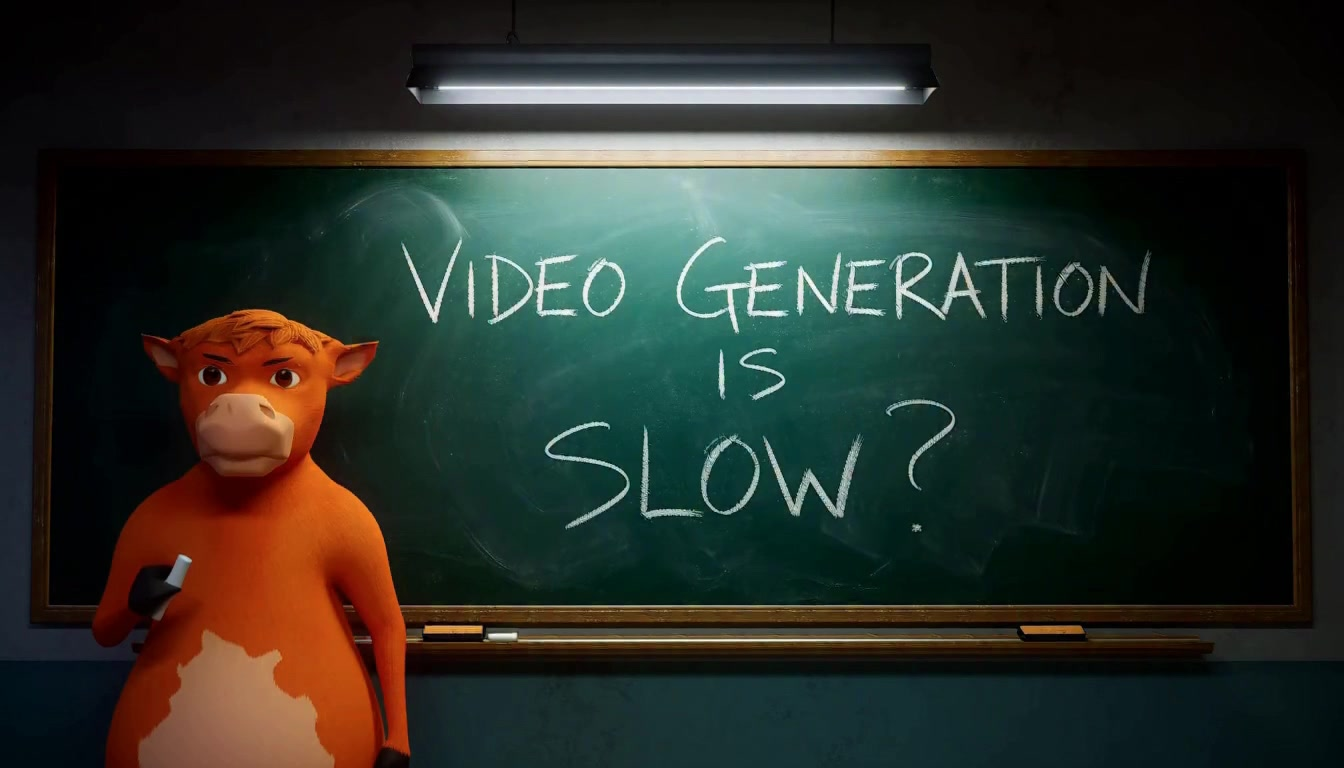
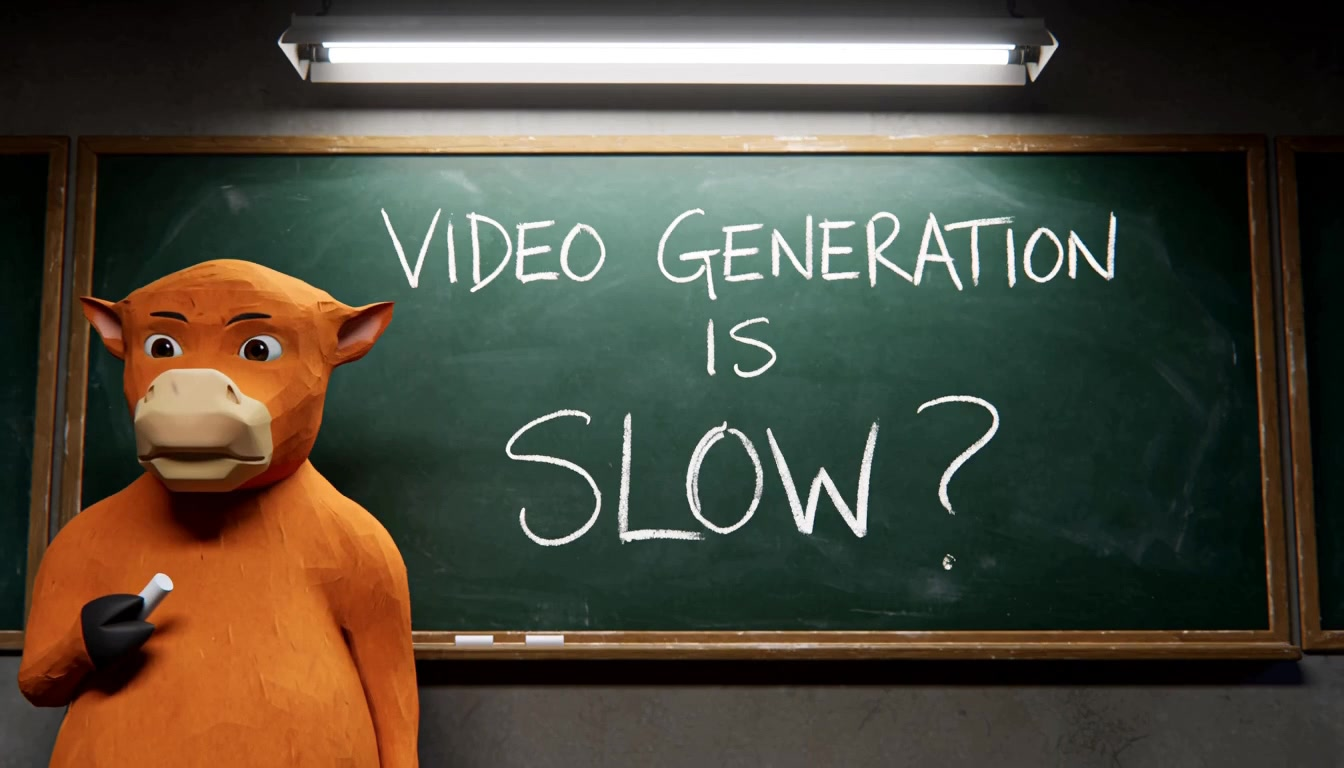
docs: refine Sol-H3 collaborators and showcase copy

diff --git a/Sol-Engine/Sol-H3/index.html b/Sol-Engine/Sol-H3/index.html
@@ -2892,7 +2892,7 @@
     .collaborator-heading strong { color: var(--fog); font-weight: 760; }
     .collaborator-logos {
       display: grid;
-      grid-template-columns: repeat(5, minmax(0, 1fr));
+      grid-template-columns: repeat(4, minmax(0, 1fr));
       gap: 8px;
       margin-top: 8px;
     }
@@ -2949,9 +2949,6 @@
       background: rgba(255, 255, 255, .05);
     }
     .partner-logo-box img { display: block; max-width: 100%; max-height: 100%; object-fit: contain; }
-    .partner-hao .partner-lockup { min-height: 41px; }
-    .partner-hao .partner-logo-box { width: 182px; height: 41px; border: 0; border-radius: 0; background: transparent; }
-    .partner-hao .partner-logo-box img { width: 100%; height: auto; }
     .partner-reactor .partner-logo-box { background: #e5ddba; }
     .partner-reactor .partner-logo-box img { width: 100%; height: 100%; }
     .partner-humanize .partner-logo-box img { width: 32px; height: 32px; }
@@ -4232,8 +4229,8 @@
 
           <div class="hero-visual" aria-label="Full-frame Sol-Engine generation preview">
           <div class="video-terminal">
-            <video id="hero-video" poster="sol-h3-poster.jpg" autoplay muted loop controls playsinline preload="metadata" crossorigin="anonymous" aria-label="Sol-Engine generated video preview with playback and seek controls">
-              <source src="https://huggingface.co/datasets/Efficient-Large-Model/Sana-assets/resolve/main/Sol-Engine/Sol-H3/blog-assets/hero/sol-h3-niu-lai-promo-b300-audited-ack-hq.mp4" type="video/mp4">
+            <video id="hero-video" poster="sol-h3-poster.jpg?v=v6" autoplay muted loop controls playsinline preload="metadata" crossorigin="anonymous" aria-label="Sol-Engine generated video preview with playback and seek controls">
+              <source src="https://huggingface.co/datasets/Efficient-Large-Model/Sana-assets/resolve/main/Sol-Engine/Sol-H3/blog-assets/hero/sol-h3-niu-lai-promo-official-ref2va50-b300-audited-ack-hq.mp4?v=v6" type="video/mp4">
               Your browser does not support this MP4 preview.
             </video>
             <div class="terminal-top">
@@ -4242,7 +4239,7 @@
             </div>
           </div>
           <div class="video-credit">
-            <span class="video-credit-copy">Featured sample · Sol-Engine uses <a href="https://github.com/ModelTC/LightX2V/blob/main/scripts/minimax_h3/run_minimax_h3_ref2av.sh" target="_blank" rel="noopener noreferrer">LightX2V Ref2AV</a>.</span>
+            <span class="video-credit-copy">Featured sample · Official MiniMax-H3 Ref2AV weights · 50 steps.</span>
           </div>
           </div>
         </div>
@@ -4262,10 +4259,6 @@
             </a>
           </div>
           <div class="collaborator-logos">
-            <a class="collaborator-logo partner-hao" href="https://haoailab.com/blogs/fasth3-preview/" target="_blank" rel="noopener noreferrer" aria-label="Hao AI Lab at UCSD — Default few-step model">
-              <span class="partner-lockup"><span class="partner-logo-box"><img src="assets/partner-hao-ai-lab.png" alt="Hao AI Lab @ UCSD"></span></span>
-              <span class="partner-role">Default few-step model</span>
-            </a>
             <a class="collaborator-logo partner-reactor" href="https://www.reactor.inc/" target="_blank" rel="noopener noreferrer" aria-label="Reactor — online demo coming soon">
               <span class="partner-lockup"><span class="partner-logo-box"><img src="assets/partner-reactor.png" alt=""></span><span class="partner-name">reactor</span></span>
               <span class="partner-role">Online demo · coming</span>
@@ -4289,7 +4282,7 @@
             <svg viewBox="0 0 24 24" fill="none" stroke="currentColor" stroke-width="1.8" aria-hidden="true"><path d="M7 17 17 7M8 7h9v9"/></svg>
           </a>
           <p class="collaboration-statement">
-            Built by <strong>NVIDIA Research’s Efficient AI Team and Singapore Lab</strong>, Sol-H3 defaults to <a href="https://haoailab.com/blogs/fasth3-preview/" target="_blank" rel="noopener noreferrer">Hao AI Lab’s four-step FastH3</a>. <a href="https://www.reactor.inc/" target="_blank" rel="noopener noreferrer">Reactor</a> is collaborating on the online demo. <a href="https://github.com/humanfia/humanize2" target="_blank" rel="noopener noreferrer">Humanize</a> and <a href="https://github.com/mit-han-lab/kernel-design-agents" target="_blank" rel="noopener noreferrer">KDA</a> helped tune GPU kernels on Sol-Engine. Compatible MiniMax-H3 few-step LoRAs—including <a href="https://huggingface.co/lightx2v/Minimax-h3-Turbo" target="_blank" rel="noopener noreferrer">LightX2V’s open 4-step and 8-step Turbo LoRAs</a>—plug into the same Sol-H3 engine.
+            Built by <strong>NVIDIA Research’s Efficient AI Team and Singapore Lab</strong>. <a href="https://www.reactor.inc/" target="_blank" rel="noopener noreferrer">Reactor</a> is collaborating on the online demo. <a href="https://github.com/humanfia/humanize2" target="_blank" rel="noopener noreferrer">Humanize</a> and <a href="https://github.com/mit-han-lab/kernel-design-agents" target="_blank" rel="noopener noreferrer">KDA</a> helped tune GPU kernels on Sol-Engine. Compatible MiniMax-H3 few-step LoRAs—including <a href="https://huggingface.co/lightx2v/Minimax-h3-Turbo" target="_blank" rel="noopener noreferrer">LightX2V’s open 4-step and 8-step Turbo LoRAs</a>—plug into the same Sol-H3 engine.
           </p>
         </aside>
       </div>
@@ -4469,7 +4462,7 @@
 
         <div class="method-note reveal">
           <strong>Showcase profile</strong>
-          <span>Each ten-second sample is generated by Sol-H3 at 1344×768 with native audio, using the four-step FastH3 Dense/Data-Free adapter. Showcase settings differ from the speed benchmark above.</span>
+          <span>Each ten-second sample is generated by Sol-H3 at 1344×768 with native audio, using the default four-step Dense/Data-Free adapter.</span>
         </div>
       </div>
     </section>
@@ -4654,11 +4647,11 @@
           </div>
           <ul class="acknowledgement-list">
             <li><a class="ack-entity" href="https://huggingface.co/MiniMaxAI/MiniMax-H3" target="_blank" rel="noopener noreferrer">MiniMax</a><span class="ack-role">MiniMax-H3 open weights and code.</span></li>
-            <li><a class="ack-entity" href="https://haoailab.com/blogs/fasth3-preview/" target="_blank" rel="noopener noreferrer">Hao AI Lab @ UCSD</a><span class="ack-role">FastH3 Preview v1, the default four-step model in this release.</span></li>
             <li><a class="ack-entity" href="https://www.reactor.inc/" target="_blank" rel="noopener noreferrer">Reactor</a><span class="ack-role">Forthcoming online demo and deployment collaboration.</span></li>
             <li><span class="ack-entity"><a href="https://github.com/humanfia/humanize2" target="_blank" rel="noopener noreferrer">Humanize</a> + <a href="https://github.com/mit-han-lab/kernel-design-agents" target="_blank" rel="noopener noreferrer">KDA</a></span><span class="ack-role">Operator and fused-kernel optimization on top of Sol-Engine.</span></li>
             <li><a class="ack-entity" href="https://github.com/ModelTC/LightX2V" target="_blank" rel="noopener noreferrer">LightX2V</a><span class="ack-role">Open MiniMax-H3 Turbo LoRAs and the Ref2AV workflow used by Sol-Engine.</span></li>
             <li><a class="ack-entity" href="https://openvdn.github.io/h3-vda-blog.html" target="_blank" rel="noopener noreferrer">Video DeltaNet · UC Berkeley</a><span class="ack-role">Complementary hybrid-attention work for MiniMax-H3.</span></li>
+            <li><a class="ack-entity" href="https://haoailab.com/blogs/fasth3-preview/" target="_blank" rel="noopener noreferrer">Hao AI Lab @ UCSD</a><span class="ack-role">Default FastH3 four-step model.</span></li>
           </ul>
         </article>
 
@@ -4726,10 +4719,9 @@
           <ol class="reference-list">
             <li><span>01</span><div><a href="https://arxiv.org/abs/2606.23743" target="_blank" rel="noopener noreferrer">Sol Video Inference Engine: Agent-Native Full-Stack Acceleration</a> — paper and <a href="https://nvlabs.github.io/Sana/Sol-Engine/" target="_blank" rel="noopener noreferrer">project page</a>.</div></li>
             <li><span>02</span><div><a href="https://arxiv.org/abs/2607.24027" target="_blank" rel="noopener noreferrer">Sol-Attn: Accelerating Video Generation Inference via On-the-Fly Attention Sparsification</a>.</div></li>
-            <li><span>03</span><div><a href="https://huggingface.co/FastVideo/FastVideo-FastH3-4-step-Preview-v1-LoRA/tree/main/dense-datafree" target="_blank" rel="noopener noreferrer">FastH3 Preview v1 · Dense/Data-Free</a> — the four-step Hao AI Lab @ UCSD adapter used in this release.</div></li>
-            <li><span>04</span><div><a href="https://huggingface.co/MiniMaxAI/MiniMax-H3" target="_blank" rel="noopener noreferrer">MiniMax-H3</a> — official open-weight base model.</div></li>
-            <li><span>05</span><div><a href="https://openvdn.github.io/h3-vda-blog.html" target="_blank" rel="noopener noreferrer">Video DeltaNet on MiniMax H3</a> — a complementary near-lossless hybrid-attention approach.</div></li>
-            <li><span>06</span><div><a href="https://github.com/ModelTC/LightX2V" target="_blank" rel="noopener noreferrer">LightX2V</a> — open MiniMax-H3 Turbo LoRAs and Ref2AV support used by Sol-Engine.</div></li>
+            <li><span>03</span><div><a href="https://huggingface.co/MiniMaxAI/MiniMax-H3" target="_blank" rel="noopener noreferrer">MiniMax-H3</a> — official open-weight base model.</div></li>
+            <li><span>04</span><div><a href="https://openvdn.github.io/h3-vda-blog.html" target="_blank" rel="noopener noreferrer">Video DeltaNet on MiniMax H3</a> — a complementary near-lossless hybrid-attention approach.</div></li>
+            <li><span>05</span><div><a href="https://github.com/ModelTC/LightX2V" target="_blank" rel="noopener noreferrer">LightX2V</a> — open MiniMax-H3 Turbo LoRAs and Ref2AV support used by Sol-Engine.</div></li>
           </ol>
         </div>
       </div>
